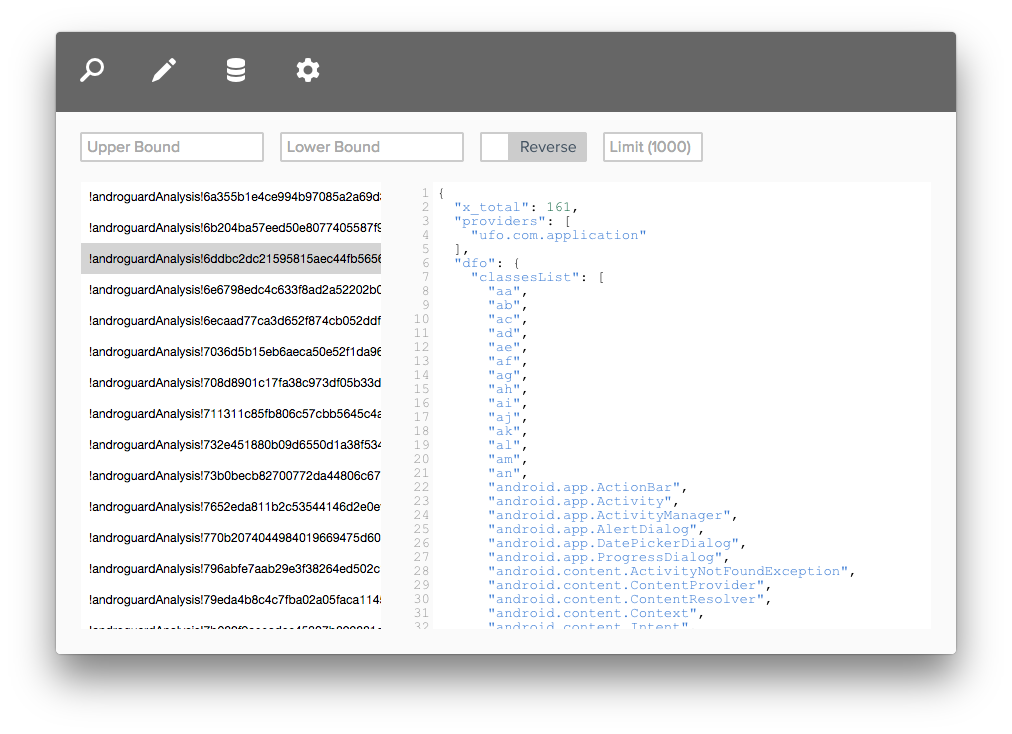
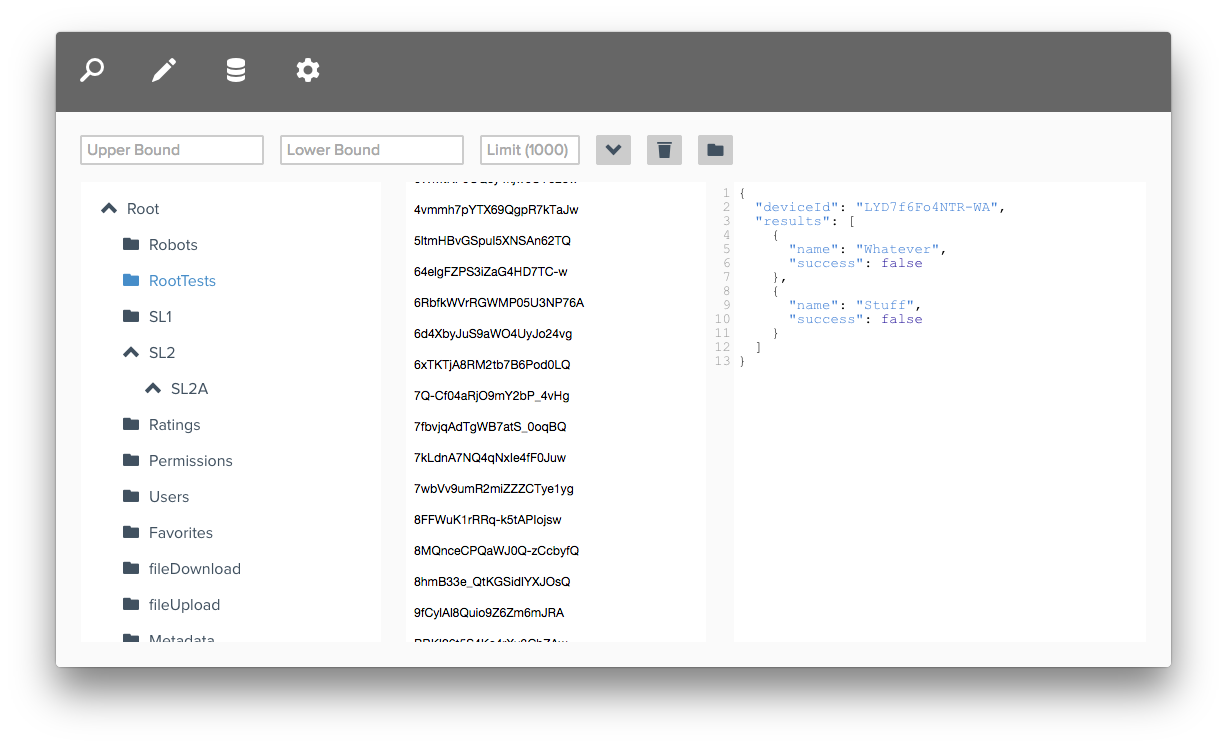
first pass at sublevel integration

diff --git a/lib/query.js b/lib/query.js
@@ -8,6 +8,7 @@ var lint = require('codemirror/addon/lint/lint');
 var jslint = require('codemirror/addon/lint/javascript-lint');
 var jsonlint = require('codemirror/addon/lint/json-lint');
 
+var Tree = require('level-subtree');
 var remote = require('remote');
 var dialog = remote.require('dialog');
 
@@ -19,12 +20,19 @@ var limitEl;
 var reverseEl;
 var keysEl;
 var deleteEl;
+var sublevelsBtn;
+var resultsEl;
+var treeEl;
+var rootEl;
 
 var editor;
 var debounce;
 var stream;
 
+var mapNodes = Array.prototype.map;
+
 exports.getKeys = function(database, config) {
+  deleteEl.setAttribute('disabled', true);
   clearTimeout(debounce);
 
   if (stream && stream.readable) {
@@ -33,12 +41,17 @@ exports.getKeys = function(database, config) {
 
   debounce = setTimeout(function() {
 
-    config.query.lte = upperBoundEl.value;
-    config.query.gte = lowerBoundEl.value;
+    config.query.lte = config.query.prefix + upperBoundEl.value;
+    config.query.gte = config.query.prefix + lowerBoundEl.value;
 
-    config.query.limit = limitEl.value;
-    config.query.reverse = reverse.checked;
+    if (lowerBoundEl.value == '' && config.query.prefix != '') {
+      config.query.lte += '~';
+    }
 
+    var limit = parseInt(limitEl.value, 10);
+    config.query.limit = isNaN(limit) ? 1000 : limit;
+    config.query.reverse = reverseEl.hasAttribute('checked');
+    
     var opts = xtend({ values: false }, config.query);
     editor.doc.setValue('');
     keysEl.innerHTML = '';
@@ -47,8 +60,8 @@ exports.getKeys = function(database, config) {
       .createReadStream(opts)
       .on('data', function(key) {
         var o = document.createElement('option');
-        o.value = o.innerText = key;
-        o.title = key;
+        o.value = o.title = key;
+        o.innerText = key.replace(config.query.prefix, '');
         keysEl.appendChild(o);
       });
   }, 250);
@@ -57,6 +70,7 @@ exports.getKeys = function(database, config) {
 exports.init = function(database, config) {
 
   queryEl = document.querySelector('section.query');
+  resultsEl = queryEl.querySelector('.results');
   editorEl = document.querySelector('.codemirror');
   upperBoundEl = queryEl.querySelector('.upperbound');
   lowerBoundEl = queryEl.querySelector('.lowerbound');
@@ -64,6 +78,10 @@ exports.init = function(database, config) {
   reverseEl = queryEl.querySelector('.reverse');
   keysEl = queryEl.querySelector('.keys select');
   deleteEl = queryEl.querySelector('.delete');
+  sublevelsEl = queryEl.querySelector('.sublevels-container');
+  sublevelsBtn = queryEl.querySelector('.sublevels');
+  treeEl = queryEl.querySelector('.tree');
+  rootEl = treeEl.querySelector('ul.root');
 
   var win = remote.getCurrentWindow();
 
@@ -77,7 +95,8 @@ exports.init = function(database, config) {
 
   config.query = config.query || { 
     limit: 1000, 
-    valueEncoding: 'json' 
+    valueEncoding: 'json',
+    prefix: ''
   };
 
   var limitText = 'Limit (' + config.limit + ')';
@@ -92,7 +111,18 @@ exports.init = function(database, config) {
   dom.on(upperBoundEl, 'keyup', getKeys);
   dom.on(lowerBoundEl, 'keyup', getKeys);
   dom.on(limitEl, 'keyup', getKeys);
-  dom.on(reverseEl, 'click', getKeys);
+
+  dom.on(reverseEl, 'click', function() {
+    if (this.hasAttribute('checked')) {
+      this.value = 'navigatedown';
+      this.removeAttribute('checked');
+    }
+    else {
+      this.value = 'navigateup';
+      this.setAttribute('checked', true);
+    }
+    getKeys();
+  });
 
   var dialogOpts = {
     buttons: ['OK', 'CANCEL']
@@ -120,6 +150,69 @@ exports.init = function(database, config) {
     database.handle.get(this.value, function(err, value) {
       editor.doc.setValue(JSON.stringify(value, 2, 2));
     });
+  });
+
+  var tree;
+  var treeHandle;
+  var treeMap = {};
+
+  function buildTree(tree, parentNode, path) {
+    for (var branch in tree) {
+
+      path.push(branch);
+      treeMap['tree-' + branch] = path.join('#');
+
+      var li = document.createElement('li');
+      var label = document.createElement('label');
+      var input = document.createElement('input');
+      var ul = document.createElement('ul');
+      
+      input.id = 'tree-' + branch;
+      input.type = 'checkbox';
+      
+      label.setAttribute('for', input.id);
+      label.innerText = branch;
+      
+      li.appendChild(input);
+      li.appendChild(label);
+      li.appendChild(ul);
+      
+      parentNode.appendChild(li);
+
+      buildTree(tree[branch], ul, path);
+      path.pop();
+    }
+  }
+
+  dom.on(sublevelsBtn, 'click', function() {
+    if (!tree) {
+      treeHandle = Tree(database.handle);
+      treeHandle.init(function(err, data) {
+        tree = data;
+        buildTree(data, rootEl, []);
+      });
+    }
+
+    if (resultsEl.classList.contains('open')) {
+      return resultsEl.classList.remove('open');
+    }
+    resultsEl.classList.add('open');
+  });
+  
+  dom.on(treeEl, 'click', function(event) {
+
+    mapNodes.call(treeEl.querySelectorAll('input'), function(el) {
+      el.classList.remove('active');
+    });
+    
+    if (event.srcElement.tagName == 'INPUT') {
+      event.srcElement.classList.add('active');
+      var mappedName = treeMap[event.srcElement.id];
+      config.query.prefix = mappedName
+        ? ('!' + mappedName + '!') 
+        : '';
+      exports.getKeys(database, config);
+    }
   });
 
 };

diff --git a/assets/html/index.html b/assets/html/index.html
@@ -1,1 +1,1 @@
-<html><head><link rel="stylesheet" href="../css/codemirror.css"/><link rel="stylesheet" href="../css/index.css"/><script src="../../client.js"></script></head><body><header><ul class="horizontal"><li><a href="#" class="ss-icon query">search</a></li><li><a href="#" class="ss-icon put">pencil</a></li><li><a h="h" ref="#" class="ss-icon connections">database</a></li><li><a href="#" class="ss-icon settings">cog</a></li></ul></header></body></html><section class="query"><div class="controls"><div class="control"><input type="text" placeholder="Upper Bound" class="upperbound"/></div><div class="control"><input type="text" placeholder="Lower Bound" class="lowerbound"/></div><div class="control"><input type="checkbox" id="reverse" name="reverse"/><label for="reverse" class="reverse custom-checkbox">Reverse</label></div><div class="control"><input name="limit" type="text" class="limit"/></div><div class="control"><input type="button" value="Delete" disabled="disabled" class="delete"/></div></div><div class="results"><div class="keys"><select multiple="multiple"><option>key.namea</option><option>key.nameb</option><option>key.namec</option></select></div><div class="split"></div><div class="value"><textarea class="codemirror"></textarea></div></div></section><section class="put"><div class="controls"><div class="control"><input type="button" value="Save" class="save"/></div><div class="control"><input type="text" placeholder="Key Encoding" class="keyEncoding"/></div><div class="control"><input type="text" placeholder="Value Encoding" class="valueEncoding"/></div></div><div class="key"><textarea class="codemirror"></textarea></div><div class="value"><textarea class="codemirror"></textarea></div></section><section class="connections"><div class="connection-options"><div class="heading"><div class="large-icon ss-icon">folder</div><h2>Local Connection</h2></div><div class="option"><input type="text" placeholder="/path/to/database" class="path"/><input type="button" value="Open" class="openDirectory"/></div><div class="heading"><div class="large-icon ss-icon">cloud</div><h2>Network Connection</h2></div><div class="option"><input type="text" placeholder="tcp://127.0.0.1:8001" class="host"/><input type="button" value="Connect" class="openConnection"/></div></div></section><section class="settings"><p>Settings</p></section><div class="modal-overlay"></div>
+<html><head><link rel="stylesheet" href="../css/codemirror.css"/><link rel="stylesheet" href="../css/index.css"/><script src="../../client.js"></script></head><body><header><ul class="horizontal"><li><a href="#" class="ss-icon query">search</a></li><li><a href="#" class="ss-icon put">pencil</a></li><li><a h="h" ref="#" class="ss-icon connections">database</a></li><li><a href="#" class="ss-icon settings">cog</a></li></ul></header></body></html><section class="query"><div class="controls"><div class="control"><input type="text" placeholder="Upper Bound" class="upperbound"/></div><div class="control"><input type="text" placeholder="Lower Bound" class="lowerbound"/></div><div class="control"><input name="limit" type="text" class="limit"/></div><div class="control"><input type="button" value="navigatedown" title="Reverse" class="ss-icon reverse"/></div><div class="control"><input type="button" value="trash" disabled="disabled" title="Delete" class="ss-icon delete"/></div><div class="control"><input type="button" value="folder" title="Sublevels" class="ss-icon sublevels"/></div></div><div class="tree-container"><div class="tree"><input id="root" type="checkbox"/><label for="root">Root</label><ul class="root"></ul></div></div><div class="results"><div class="keys"><select multiple="multiple"></select></div><div class="split"></div><div class="value"><textarea class="codemirror"></textarea></div></div></section><section class="put"><div class="controls"><div class="control"><input type="button" value="Save" class="save"/></div><div class="control"><input type="text" placeholder="Key Encoding" class="keyEncoding"/></div><div class="control"><input type="text" placeholder="Value Encoding" class="valueEncoding"/></div></div><div class="key"><textarea class="codemirror"></textarea></div><div class="value"><textarea class="codemirror"></textarea></div></section><section class="connections"><div class="connection-options"><div class="heading"><div class="large-icon ss-icon">folder</div><h2>Local Connection</h2></div><div class="option"><input type="text" placeholder="/path/to/database" class="path"/><input type="button" value="Open" class="openDirectory"/></div><div class="heading"><div class="large-icon ss-icon">cloud</div><h2>Network Connection</h2></div><div class="option"><input type="text" placeholder="tcp://127.0.0.1:8001" class="host"/><input type="button" value="Connect" class="openConnection"/></div></div></section><section class="settings"><p>Settings</p></section><div class="modal-overlay"></div>

diff --git a/assets/css/index.css b/assets/css/index.css
@@ -157,9 +157,72 @@ ul.numbered li:before {
 .large-icon {
   font-size: 40px;
   display: inline-block;
-  color: #666;
   position: relative;
   top: 14px;
+}
+.tree ul,
+.tree li {
+  padding: 0;
+  margin: 0;
+  list-style: none;
+}
+.tree {
+  font: normal 16px "ProximaNova Regular", Arial, Sans-serif;
+  -moz-user-select: none;
+  -webkit-user-select: none;
+  user-select: none;
+}
+.tree input {
+  position: absolute;
+  opacity: 0;
+}
+.tree input + label + ul {
+  margin: 0 0 0 22px;
+}
+.tree input ~ ul {
+  display: none;
+}
+.tree input:disabled + label {
+  cursor: default;
+  opacity: 0.6;
+}
+.tree input:checked:not(:disabled) ~ ul {
+  display: block;
+}
+.tree input:checked + label::before {
+  font-family: "SSStandard";
+  content: 'navigateup';
+}
+.tree a {
+  color: #00f;
+  text-decoration: none;
+}
+.tree a:hover {
+  text-decoration: underline;
+}
+.tree label::before {
+  content: "";
+  width: 16px;
+  vertical-align: middle;
+  background-position: 0 -32px;
+}
+.tree label,
+.tree label::before {
+  font-family: "SSStandard";
+  cursor: pointer;
+  content: "folder";
+}
+.tree label,
+.tree a,
+.tree label::before {
+  display: inline-block;
+  height: 16px;
+  line-height: 16px;
+  vertical-align: middle;
+  margin: 10px;
+}
+.tree label {
+  font-family: "ProximaNova Regular";
 }
 label.custom-select {
   position: relative;
@@ -239,13 +302,22 @@ label.custom-select {
 [type="button"]:disabled {
   opacity: 0.4;
 }
-[type="checkbox"]:not(:checked),
-[type="checkbox"]:checked {
+[type="button"].ss-icon {
+  font-family: "SSStandard";
+  line-height: 10px;
+  padding: 10px 0px 6px 0px;
+  top: 3px;
+  position: relative;
+  min-width: 35px;
+  max-width: 35px;
+}
+[type="checkbox"].custom:not(:checked),
+[type="checkbox"].custom:checked {
   position: absolute;
   left: -9999px;
 }
-[type="checkbox"]:not(:checked) + label,
-[type="checkbox"]:checked + label {
+[type="checkbox"].custom:not(:checked) + label,
+[type="checkbox"].custom:checked + label {
   font-family: "ProximaNova Regular";
   position: relative;
   padding: 7px 10px 7px 40px;
@@ -255,8 +327,8 @@ label.custom-select {
   border-radius: 2px;
   height: 30px;
 }
-[type="checkbox"]:not(:checked) + label:before,
-[type="checkbox"]:checked + label:before {
+[type="checkbox"].custom:not(:checked) + label:before,
+[type="checkbox"].custom:checked + label:before {
   content: '';
   position: absolute;
   left: 0;
@@ -268,8 +340,8 @@ label.custom-select {
   background: #fff;
   border-radius: 2px;
 }
-[type="checkbox"]:not(:checked) + label:after,
-[type="checkbox"]:checked + label:after {
+[type="checkbox"].custom:not(:checked) + label:after,
+[type="checkbox"].custom:checked + label:after {
   content: "check";
   font-family: "SSStandard";
   position: absolute;
@@ -280,16 +352,16 @@ label.custom-select {
   color: #4a90e2;
   transition: all 0.2s;
 }
-[type="checkbox"]:not(:checked) + label:after {
+[type="checkbox"].custom:not(:checked) + label:after {
   opacity: 0;
   transform: scale(0);
 }
-[type="checkbox"]:checked + label:after {
+[type="checkbox"].custom:checked + label:after {
   opacity: 1;
   transform: scale(1);
 }
-[type="checkbox"]:disabled:not(:checked) + label:before,
-[type="checkbox"]:disabled:checked + label:before {
+[type="checkbox"].custom:disabled:not(:checked) + label:before,
+[type="checkbox"].custom:disabled:checked + label:before {
   box-shadow: none;
   border-color: #bbb;
   background-color: #ddd;
@@ -300,8 +372,8 @@ label.custom-select {
 [type="checkbox"]:disabled + label {
   color: #aaa;
 }
-[type="checkbox"]:checked:focus + label:before,
-[type="checkbox"]:not(:checked):focus + label:before {
+[type="checkbox"].custom:checked:focus + label:before,
+[type="checkbox"].custom:not(:checked):focus + label:before {
   transition: all 0.1s ease-in;
 }
 .controls {
@@ -393,14 +465,33 @@ section.query [name="lower-bound"] {
   min-width: 22px;
   width: 22px;
 }
+section.query .tree-container {
+  background: #fff;
+  position: absolute;
+  top: 70px;
+  bottom: 25px;
+  left: 25px;
+  width: 300px;
+  overflow: auto;
+}
+section.query .tree-container input.active + label {
+  color: #468dc9;
+}
 section.query .results {
   position: absolute;
   top: 70px;
   bottom: 25px;
   right: 25px;
   left: 25px;
+  z-index: 10;
+  -webkit-transition: all 0.3s;
+  -moz-transition: all 0.3s;
+  transition: all 0.3s;
 }
-section.query .results .split {
+section.query .results.open {
+  left: 350px;
+}
+section.query .results .splitx {
   position: absolute;
   top: 0px;
   bottom: 0px;
@@ -434,7 +525,7 @@ section.query .results .keys select option {
 section.query .results .value {
   position: absolute;
   top: 0;
-  left: 310px;
+  left: 300px;
   right: 0;
   bottom: 0px;
   z-index: 1;
